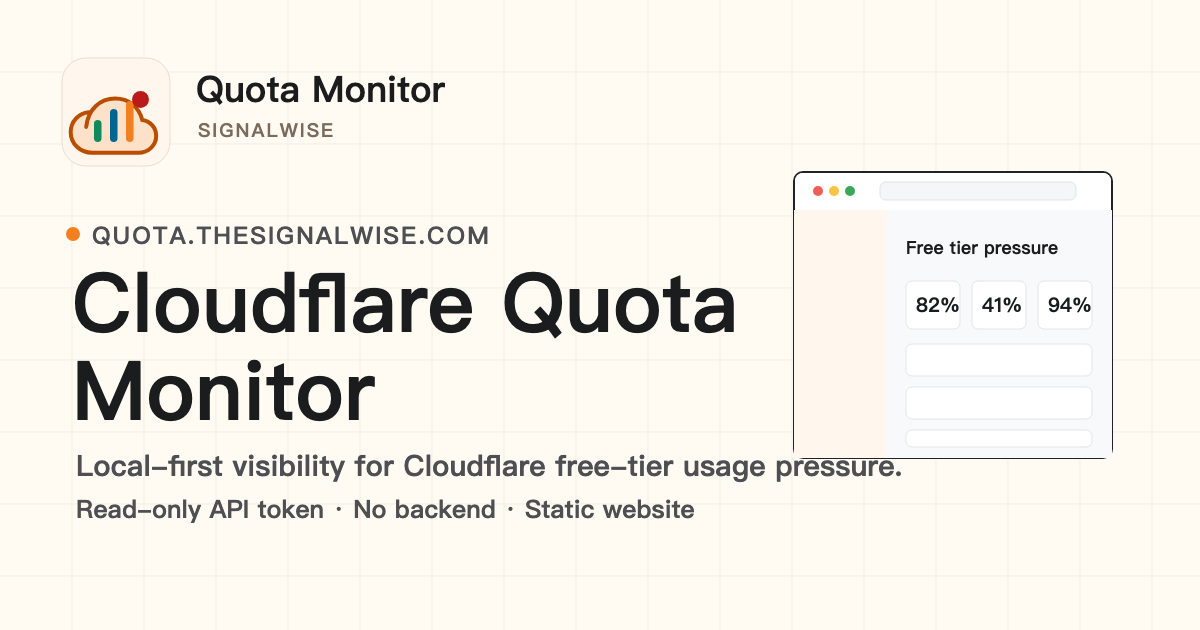
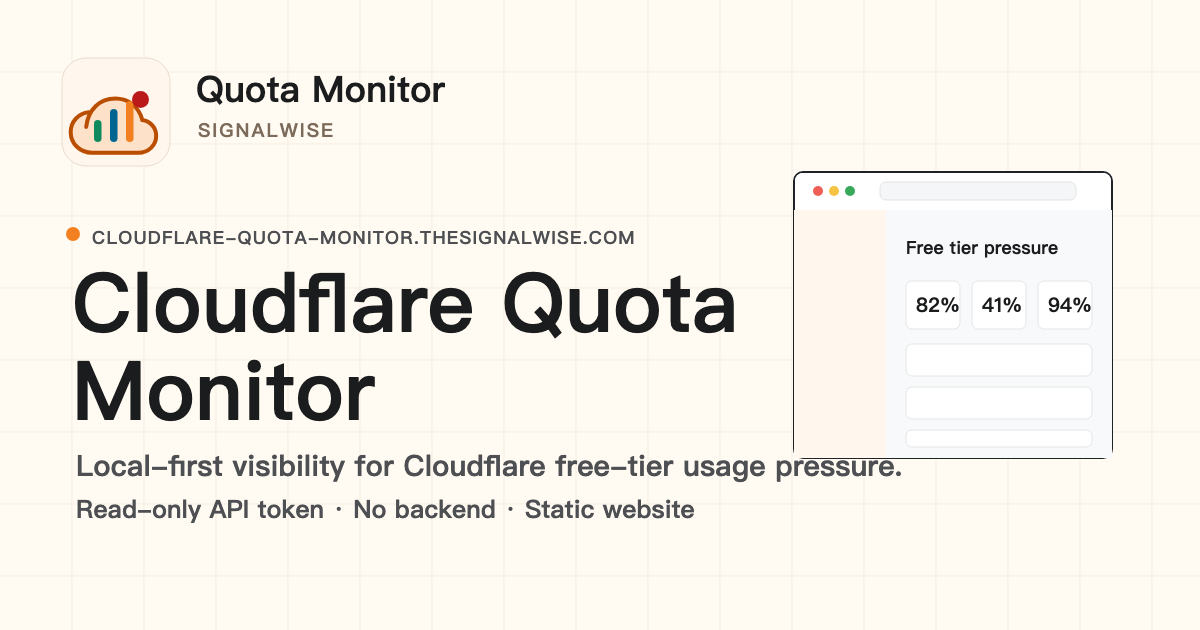
Update site domain

Changed region(s): [[0.0617, 0.3619, 0.5242, 0.3921]]

diff --git a/zh-CN/index.html b/zh-CN/index.html
@@ -11,11 +11,11 @@
   <meta property="og:title" content="Cloudflare Quota Monitor" />
   <meta property="og:description" content="面向 Cloudflare 免费层配额压力的本地优先可视化工具。" />
   <meta property="og:type" content="website" />
-  <meta property="og:url" content="https://quota.thesignalwise.com/zh-CN/" />
+  <meta property="og:url" content="https://cloudflare-quota-monitor.thesignalwise.com/zh-CN/" />
   <meta property="og:locale" content="zh_CN" />
   <meta property="og:locale:alternate" content="en_US" />
-  <meta property="og:image" content="https://quota.thesignalwise.com/assets/og-image.png" />
-  <meta property="og:image:secure_url" content="https://quota.thesignalwise.com/assets/og-image.png" />
+  <meta property="og:image" content="https://cloudflare-quota-monitor.thesignalwise.com/assets/og-image.png" />
+  <meta property="og:image:secure_url" content="https://cloudflare-quota-monitor.thesignalwise.com/assets/og-image.png" />
   <meta property="og:image:type" content="image/png" />
   <meta property="og:image:width" content="1200" />
   <meta property="og:image:height" content="630" />
@@ -23,16 +23,16 @@
   <meta name="twitter:card" content="summary_large_image" />
   <meta name="twitter:title" content="Cloudflare Quota Monitor" />
   <meta name="twitter:description" content="面向 Cloudflare 免费层配额压力的本地优先可视化工具。" />
-  <meta name="twitter:image" content="https://quota.thesignalwise.com/assets/og-image.png" />
+  <meta name="twitter:image" content="https://cloudflare-quota-monitor.thesignalwise.com/assets/og-image.png" />
   <meta name="twitter:image:alt" content="Cloudflare Quota Monitor 仪表盘预览" />
   <meta name="theme-color" content="#f38020" />
   <title>Cloudflare 配额监控 - SignalWise</title>
-  <link rel="canonical" href="https://quota.thesignalwise.com/zh-CN/" />
-  <link rel="alternate" hreflang="en" href="https://quota.thesignalwise.com/" />
-  <link rel="alternate" hreflang="zh-CN" href="https://quota.thesignalwise.com/zh-CN/" />
-  <link rel="alternate" hreflang="x-default" href="https://quota.thesignalwise.com/" />
+  <link rel="canonical" href="https://cloudflare-quota-monitor.thesignalwise.com/zh-CN/" />
+  <link rel="alternate" hreflang="en" href="https://cloudflare-quota-monitor.thesignalwise.com/" />
+  <link rel="alternate" hreflang="zh-CN" href="https://cloudflare-quota-monitor.thesignalwise.com/zh-CN/" />
+  <link rel="alternate" hreflang="x-default" href="https://cloudflare-quota-monitor.thesignalwise.com/" />
   <link rel="manifest" href="../site.webmanifest" />
-  <link rel="alternate" type="text/markdown" href="https://quota.thesignalwise.com/llms.txt" title="llms.txt" />
+  <link rel="alternate" type="text/markdown" href="https://cloudflare-quota-monitor.thesignalwise.com/llms.txt" title="llms.txt" />
   <link rel="icon" href="../assets/favicon.svg" type="image/svg+xml" />
   <link rel="preload" as="image" href="../assets/quota-logo.svg" />
   <link rel="stylesheet" href="../site.css" />
@@ -43,9 +43,9 @@
       "name": "Cloudflare Quota Monitor",
       "applicationCategory": "DeveloperApplication",
       "operatingSystem": "Chrome",
-      "url": "https://quota.thesignalwise.com/zh-CN/",
+      "url": "https://cloudflare-quota-monitor.thesignalwise.com/zh-CN/",
       "description": "一个本地优先的配额监控仪表盘，用于查看 Cloudflare Workers、R2、D1、KV、Pages、Queues 等免费层用量。",
-      "image": "https://quota.thesignalwise.com/assets/og-image.png",
+      "image": "https://cloudflare-quota-monitor.thesignalwise.com/assets/og-image.png",
       "publisher": {
         "@type": "Organization",
         "name": "SignalWise",
@@ -93,7 +93,7 @@
   <main id="main">
     <section class="hero" aria-labelledby="hero-title">
       <div class="hero-copy">
-        <p class="eyebrow">quota.thesignalwise.com</p>
+        <p class="eyebrow">cloudflare-quota-monitor.thesignalwise.com</p>
         <h1 id="hero-title">Cloudflare<br />配额<br />监控</h1>
         <p>从一个紧凑、本地优先的仪表盘查看 Cloudflare 开发者产品的免费层用量压力。只读遥测，没有后端，也没有托管凭据库。</p>
         <div class="hero-actions">
@@ -115,7 +115,7 @@
         <div class="product-window">
           <div class="window-top">
             <div class="traffic" aria-hidden="true"><span></span><span></span><span></span></div>
-            <div class="window-url">quota.thesignalwise.com/dashboard</div>
+            <div class="window-url">cloudflare-quota-monitor.thesignalwise.com/dashboard</div>
           </div>
           <div class="dashboard-preview">
             <aside class="preview-sidebar" aria-hidden="true">
@@ -290,7 +290,7 @@
       <div class="cta-panel">
         <div>
           <h2 id="install-title">部署站点。安装扩展。盯住限制。</h2>
-          <p>静态站目标：quota.thesignalwise.com。运行时目标：Chrome MV3 加 Cloudflare 只读遥测。</p>
+          <p>静态站目标：cloudflare-quota-monitor.thesignalwise.com。运行时目标：Chrome MV3 加 Cloudflare 只读遥测。</p>
         </div>
         <a class="button button--dark" href="https://github.com/thesignalwise/cloudflare-quota-monitor" target="_blank" rel="noreferrer">打开仓库</a>
       </div>

diff --git a/index.html b/index.html
@@ -11,11 +11,11 @@
   <meta property="og:title" content="Cloudflare Quota Monitor" />
   <meta property="og:description" content="Local-first visibility for Cloudflare free-tier quota pressure." />
   <meta property="og:type" content="website" />
-  <meta property="og:url" content="https://quota.thesignalwise.com/" />
+  <meta property="og:url" content="https://cloudflare-quota-monitor.thesignalwise.com/" />
   <meta property="og:locale" content="en_US" />
   <meta property="og:locale:alternate" content="zh_CN" />
-  <meta property="og:image" content="https://quota.thesignalwise.com/assets/og-image.png" />
-  <meta property="og:image:secure_url" content="https://quota.thesignalwise.com/assets/og-image.png" />
+  <meta property="og:image" content="https://cloudflare-quota-monitor.thesignalwise.com/assets/og-image.png" />
+  <meta property="og:image:secure_url" content="https://cloudflare-quota-monitor.thesignalwise.com/assets/og-image.png" />
   <meta property="og:image:type" content="image/png" />
   <meta property="og:image:width" content="1200" />
   <meta property="og:image:height" content="630" />
@@ -23,16 +23,16 @@
   <meta name="twitter:card" content="summary_large_image" />
   <meta name="twitter:title" content="Cloudflare Quota Monitor" />
   <meta name="twitter:description" content="Local-first visibility for Cloudflare free-tier quota pressure." />
-  <meta name="twitter:image" content="https://quota.thesignalwise.com/assets/og-image.png" />
+  <meta name="twitter:image" content="https://cloudflare-quota-monitor.thesignalwise.com/assets/og-image.png" />
   <meta name="twitter:image:alt" content="Cloudflare Quota Monitor dashboard preview" />
   <meta name="theme-color" content="#f38020" />
   <title>Cloudflare Quota Monitor - SignalWise</title>
-  <link rel="canonical" href="https://quota.thesignalwise.com/" />
-  <link rel="alternate" hreflang="en" href="https://quota.thesignalwise.com/" />
-  <link rel="alternate" hreflang="zh-CN" href="https://quota.thesignalwise.com/zh-CN/" />
-  <link rel="alternate" hreflang="x-default" href="https://quota.thesignalwise.com/" />
+  <link rel="canonical" href="https://cloudflare-quota-monitor.thesignalwise.com/" />
+  <link rel="alternate" hreflang="en" href="https://cloudflare-quota-monitor.thesignalwise.com/" />
+  <link rel="alternate" hreflang="zh-CN" href="https://cloudflare-quota-monitor.thesignalwise.com/zh-CN/" />
+  <link rel="alternate" hreflang="x-default" href="https://cloudflare-quota-monitor.thesignalwise.com/" />
   <link rel="manifest" href="site.webmanifest" />
-  <link rel="alternate" type="text/markdown" href="https://quota.thesignalwise.com/llms.txt" title="llms.txt" />
+  <link rel="alternate" type="text/markdown" href="https://cloudflare-quota-monitor.thesignalwise.com/llms.txt" title="llms.txt" />
   <link rel="icon" href="assets/favicon.svg" type="image/svg+xml" />
   <link rel="preload" as="image" href="assets/quota-logo.svg" />
   <link rel="stylesheet" href="site.css" />
@@ -43,9 +43,9 @@
       "name": "Cloudflare Quota Monitor",
       "applicationCategory": "DeveloperApplication",
       "operatingSystem": "Chrome",
-      "url": "https://quota.thesignalwise.com/",
+      "url": "https://cloudflare-quota-monitor.thesignalwise.com/",
       "description": "A local-first dashboard for watching free-tier usage across Cloudflare Workers, R2, D1, KV, Pages, Queues, and more.",
-      "image": "https://quota.thesignalwise.com/assets/og-image.png",
+      "image": "https://cloudflare-quota-monitor.thesignalwise.com/assets/og-image.png",
       "publisher": {
         "@type": "Organization",
         "name": "SignalWise",
@@ -93,7 +93,7 @@
   <main id="main">
     <section class="hero" aria-labelledby="hero-title">
       <div class="hero-copy">
-        <p class="eyebrow">quota.thesignalwise.com</p>
+        <p class="eyebrow">cloudflare-quota-monitor.thesignalwise.com</p>
         <h1 id="hero-title">Cloudflare<br />Quota<br />Monitor</h1>
         <p>Watch free-tier usage pressure across Cloudflare developer products from a compact, local-first dashboard. Read-only telemetry, no backend, no hosted credential vault.</p>
         <div class="hero-actions">
@@ -115,7 +115,7 @@
         <div class="product-window">
           <div class="window-top">
             <div class="traffic" aria-hidden="true"><span></span><span></span><span></span></div>
-            <div class="window-url">quota.thesignalwise.com/dashboard</div>
+            <div class="window-url">cloudflare-quota-monitor.thesignalwise.com/dashboard</div>
           </div>
           <div class="dashboard-preview">
             <aside class="preview-sidebar" aria-hidden="true">
@@ -290,7 +290,7 @@
       <div class="cta-panel">
         <div>
           <h2 id="install-title">Deploy the site. Install the extension. Watch the limits.</h2>
-          <p>Static website target: quota.thesignalwise.com. Runtime target: Chrome MV3 with Cloudflare read-only telemetry.</p>
+          <p>Static website target: cloudflare-quota-monitor.thesignalwise.com. Runtime target: Chrome MV3 with Cloudflare read-only telemetry.</p>
         </div>
         <a class="button button--dark" href="https://github.com/thesignalwise/cloudflare-quota-monitor" target="_blank" rel="noreferrer">Open repository</a>
       </div>

diff --git a/website-privacy.html b/website-privacy.html
@@ -11,11 +11,11 @@
   <meta property="og:title" content="Privacy Policy - Cloudflare Quota Monitor" />
   <meta property="og:description" content="How Cloudflare Quota Monitor handles credentials, telemetry, local storage, and website data." />
   <meta property="og:type" content="article" />
-  <meta property="og:url" content="https://quota.thesignalwise.com/website-privacy.html" />
+  <meta property="og:url" content="https://cloudflare-quota-monitor.thesignalwise.com/website-privacy.html" />
   <meta property="og:locale" content="en_US" />
   <meta property="og:locale:alternate" content="zh_CN" />
-  <meta property="og:image" content="https://quota.thesignalwise.com/assets/og-image.png" />
-  <meta property="og:image:secure_url" content="https://quota.thesignalwise.com/assets/og-image.png" />
+  <meta property="og:image" content="https://cloudflare-quota-monitor.thesignalwise.com/assets/og-image.png" />
+  <meta property="og:image:secure_url" content="https://cloudflare-quota-monitor.thesignalwise.com/assets/og-image.png" />
   <meta property="og:image:type" content="image/png" />
   <meta property="og:image:width" content="1200" />
   <meta property="og:image:height" content="630" />
@@ -23,16 +23,16 @@
   <meta name="twitter:card" content="summary_large_image" />
   <meta name="twitter:title" content="Privacy Policy - Cloudflare Quota Monitor" />
   <meta name="twitter:description" content="How Cloudflare Quota Monitor handles credentials, telemetry, local storage, and website data." />
-  <meta name="twitter:image" content="https://quota.thesignalwise.com/assets/og-image.png" />
+  <meta name="twitter:image" content="https://cloudflare-quota-monitor.thesignalwise.com/assets/og-image.png" />
   <meta name="twitter:image:alt" content="Cloudflare Quota Monitor dashboard preview" />
   <meta name="theme-color" content="#f38020" />
   <title>Privacy Policy - Cloudflare Quota Monitor</title>
-  <link rel="canonical" href="https://quota.thesignalwise.com/website-privacy.html" />
-  <link rel="alternate" hreflang="en" href="https://quota.thesignalwise.com/website-privacy.html" />
-  <link rel="alternate" hreflang="zh-CN" href="https://quota.thesignalwise.com/zh-CN/privacy.html" />
-  <link rel="alternate" hreflang="x-default" href="https://quota.thesignalwise.com/website-privacy.html" />
+  <link rel="canonical" href="https://cloudflare-quota-monitor.thesignalwise.com/website-privacy.html" />
+  <link rel="alternate" hreflang="en" href="https://cloudflare-quota-monitor.thesignalwise.com/website-privacy.html" />
+  <link rel="alternate" hreflang="zh-CN" href="https://cloudflare-quota-monitor.thesignalwise.com/zh-CN/privacy.html" />
+  <link rel="alternate" hreflang="x-default" href="https://cloudflare-quota-monitor.thesignalwise.com/website-privacy.html" />
   <link rel="manifest" href="site.webmanifest" />
-  <link rel="alternate" type="text/markdown" href="https://quota.thesignalwise.com/llms.txt" title="llms.txt" />
+  <link rel="alternate" type="text/markdown" href="https://cloudflare-quota-monitor.thesignalwise.com/llms.txt" title="llms.txt" />
   <link rel="icon" href="assets/favicon.svg" type="image/svg+xml" />
   <link rel="preload" as="image" href="assets/quota-logo.svg" />
   <link rel="stylesheet" href="site.css" />

diff --git a/zh-CN/privacy.html b/zh-CN/privacy.html
@@ -11,11 +11,11 @@
   <meta property="og:title" content="隐私政策 - Cloudflare Quota Monitor" />
   <meta property="og:description" content="Cloudflare Quota Monitor 如何处理凭据、遥测、本地存储和网站数据。" />
   <meta property="og:type" content="article" />
-  <meta property="og:url" content="https://quota.thesignalwise.com/zh-CN/privacy.html" />
+  <meta property="og:url" content="https://cloudflare-quota-monitor.thesignalwise.com/zh-CN/privacy.html" />
   <meta property="og:locale" content="zh_CN" />
   <meta property="og:locale:alternate" content="en_US" />
-  <meta property="og:image" content="https://quota.thesignalwise.com/assets/og-image.png" />
-  <meta property="og:image:secure_url" content="https://quota.thesignalwise.com/assets/og-image.png" />
+  <meta property="og:image" content="https://cloudflare-quota-monitor.thesignalwise.com/assets/og-image.png" />
+  <meta property="og:image:secure_url" content="https://cloudflare-quota-monitor.thesignalwise.com/assets/og-image.png" />
   <meta property="og:image:type" content="image/png" />
   <meta property="og:image:width" content="1200" />
   <meta property="og:image:height" content="630" />
@@ -23,16 +23,16 @@
   <meta name="twitter:card" content="summary_large_image" />
   <meta name="twitter:title" content="隐私政策 - Cloudflare Quota Monitor" />
   <meta name="twitter:description" content="Cloudflare Quota Monitor 如何处理凭据、遥测、本地存储和网站数据。" />
-  <meta name="twitter:image" content="https://quota.thesignalwise.com/assets/og-image.png" />
+  <meta name="twitter:image" content="https://cloudflare-quota-monitor.thesignalwise.com/assets/og-image.png" />
   <meta name="twitter:image:alt" content="Cloudflare Quota Monitor 仪表盘预览" />
   <meta name="theme-color" content="#f38020" />
   <title>隐私政策 - Cloudflare Quota Monitor</title>
-  <link rel="canonical" href="https://quota.thesignalwise.com/zh-CN/privacy.html" />
-  <link rel="alternate" hreflang="en" href="https://quota.thesignalwise.com/website-privacy.html" />
-  <link rel="alternate" hreflang="zh-CN" href="https://quota.thesignalwise.com/zh-CN/privacy.html" />
-  <link rel="alternate" hreflang="x-default" href="https://quota.thesignalwise.com/website-privacy.html" />
+  <link rel="canonical" href="https://cloudflare-quota-monitor.thesignalwise.com/zh-CN/privacy.html" />
+  <link rel="alternate" hreflang="en" href="https://cloudflare-quota-monitor.thesignalwise.com/website-privacy.html" />
+  <link rel="alternate" hreflang="zh-CN" href="https://cloudflare-quota-monitor.thesignalwise.com/zh-CN/privacy.html" />
+  <link rel="alternate" hreflang="x-default" href="https://cloudflare-quota-monitor.thesignalwise.com/website-privacy.html" />
   <link rel="manifest" href="../site.webmanifest" />
-  <link rel="alternate" type="text/markdown" href="https://quota.thesignalwise.com/llms.txt" title="llms.txt" />
+  <link rel="alternate" type="text/markdown" href="https://cloudflare-quota-monitor.thesignalwise.com/llms.txt" title="llms.txt" />
   <link rel="icon" href="../assets/favicon.svg" type="image/svg+xml" />
   <link rel="preload" as="image" href="../assets/quota-logo.svg" />
   <link rel="stylesheet" href="../site.css" />

diff --git a/zh-CN/terms.html b/zh-CN/terms.html
@@ -11,11 +11,11 @@
   <meta property="og:title" content="服务条款 - Cloudflare Quota Monitor" />
   <meta property="og:description" content="Cloudflare Quota Monitor 网站和扩展的服务条款。" />
   <meta property="og:type" content="article" />
-  <meta property="og:url" content="https://quota.thesignalwise.com/zh-CN/terms.html" />
+  <meta property="og:url" content="https://cloudflare-quota-monitor.thesignalwise.com/zh-CN/terms.html" />
   <meta property="og:locale" content="zh_CN" />
   <meta property="og:locale:alternate" content="en_US" />
-  <meta property="og:image" content="https://quota.thesignalwise.com/assets/og-image.png" />
-  <meta property="og:image:secure_url" content="https://quota.thesignalwise.com/assets/og-image.png" />
+  <meta property="og:image" content="https://cloudflare-quota-monitor.thesignalwise.com/assets/og-image.png" />
+  <meta property="og:image:secure_url" content="https://cloudflare-quota-monitor.thesignalwise.com/assets/og-image.png" />
   <meta property="og:image:type" content="image/png" />
   <meta property="og:image:width" content="1200" />
   <meta property="og:image:height" content="630" />
@@ -23,16 +23,16 @@
   <meta name="twitter:card" content="summary_large_image" />
   <meta name="twitter:title" content="服务条款 - Cloudflare Quota Monitor" />
   <meta name="twitter:description" content="Cloudflare Quota Monitor 网站和扩展的服务条款。" />
-  <meta name="twitter:image" content="https://quota.thesignalwise.com/assets/og-image.png" />
+  <meta name="twitter:image" content="https://cloudflare-quota-monitor.thesignalwise.com/assets/og-image.png" />
   <meta name="twitter:image:alt" content="Cloudflare Quota Monitor 仪表盘预览" />
   <meta name="theme-color" content="#f38020" />
   <title>服务条款 - Cloudflare Quota Monitor</title>
-  <link rel="canonical" href="https://quota.thesignalwise.com/zh-CN/terms.html" />
-  <link rel="alternate" hreflang="en" href="https://quota.thesignalwise.com/terms.html" />
-  <link rel="alternate" hreflang="zh-CN" href="https://quota.thesignalwise.com/zh-CN/terms.html" />
-  <link rel="alternate" hreflang="x-default" href="https://quota.thesignalwise.com/terms.html" />
+  <link rel="canonical" href="https://cloudflare-quota-monitor.thesignalwise.com/zh-CN/terms.html" />
+  <link rel="alternate" hreflang="en" href="https://cloudflare-quota-monitor.thesignalwise.com/terms.html" />
+  <link rel="alternate" hreflang="zh-CN" href="https://cloudflare-quota-monitor.thesignalwise.com/zh-CN/terms.html" />
+  <link rel="alternate" hreflang="x-default" href="https://cloudflare-quota-monitor.thesignalwise.com/terms.html" />
   <link rel="manifest" href="../site.webmanifest" />
-  <link rel="alternate" type="text/markdown" href="https://quota.thesignalwise.com/llms.txt" title="llms.txt" />
+  <link rel="alternate" type="text/markdown" href="https://cloudflare-quota-monitor.thesignalwise.com/llms.txt" title="llms.txt" />
   <link rel="icon" href="../assets/favicon.svg" type="image/svg+xml" />
   <link rel="preload" as="image" href="../assets/quota-logo.svg" />
   <link rel="stylesheet" href="../site.css" />

diff --git a/terms.html b/terms.html
@@ -11,11 +11,11 @@
   <meta property="og:title" content="Terms of Service - Cloudflare Quota Monitor" />
   <meta property="og:description" content="Terms for the Cloudflare Quota Monitor website and extension." />
   <meta property="og:type" content="article" />
-  <meta property="og:url" content="https://quota.thesignalwise.com/terms.html" />
+  <meta property="og:url" content="https://cloudflare-quota-monitor.thesignalwise.com/terms.html" />
   <meta property="og:locale" content="en_US" />
   <meta property="og:locale:alternate" content="zh_CN" />
-  <meta property="og:image" content="https://quota.thesignalwise.com/assets/og-image.png" />
-  <meta property="og:image:secure_url" content="https://quota.thesignalwise.com/assets/og-image.png" />
+  <meta property="og:image" content="https://cloudflare-quota-monitor.thesignalwise.com/assets/og-image.png" />
+  <meta property="og:image:secure_url" content="https://cloudflare-quota-monitor.thesignalwise.com/assets/og-image.png" />
   <meta property="og:image:type" content="image/png" />
   <meta property="og:image:width" content="1200" />
   <meta property="og:image:height" content="630" />
@@ -23,16 +23,16 @@
   <meta name="twitter:card" content="summary_large_image" />
   <meta name="twitter:title" content="Terms of Service - Cloudflare Quota Monitor" />
   <meta name="twitter:description" content="Terms for the Cloudflare Quota Monitor website and extension." />
-  <meta name="twitter:image" content="https://quota.thesignalwise.com/assets/og-image.png" />
+  <meta name="twitter:image" content="https://cloudflare-quota-monitor.thesignalwise.com/assets/og-image.png" />
   <meta name="twitter:image:alt" content="Cloudflare Quota Monitor dashboard preview" />
   <meta name="theme-color" content="#f38020" />
   <title>Terms of Service - Cloudflare Quota Monitor</title>
-  <link rel="canonical" href="https://quota.thesignalwise.com/terms.html" />
-  <link rel="alternate" hreflang="en" href="https://quota.thesignalwise.com/terms.html" />
-  <link rel="alternate" hreflang="zh-CN" href="https://quota.thesignalwise.com/zh-CN/terms.html" />
-  <link rel="alternate" hreflang="x-default" href="https://quota.thesignalwise.com/terms.html" />
+  <link rel="canonical" href="https://cloudflare-quota-monitor.thesignalwise.com/terms.html" />
+  <link rel="alternate" hreflang="en" href="https://cloudflare-quota-monitor.thesignalwise.com/terms.html" />
+  <link rel="alternate" hreflang="zh-CN" href="https://cloudflare-quota-monitor.thesignalwise.com/zh-CN/terms.html" />
+  <link rel="alternate" hreflang="x-default" href="https://cloudflare-quota-monitor.thesignalwise.com/terms.html" />
   <link rel="manifest" href="site.webmanifest" />
-  <link rel="alternate" type="text/markdown" href="https://quota.thesignalwise.com/llms.txt" title="llms.txt" />
+  <link rel="alternate" type="text/markdown" href="https://cloudflare-quota-monitor.thesignalwise.com/llms.txt" title="llms.txt" />
   <link rel="icon" href="assets/favicon.svg" type="image/svg+xml" />
   <link rel="preload" as="image" href="assets/quota-logo.svg" />
   <link rel="stylesheet" href="site.css" />
